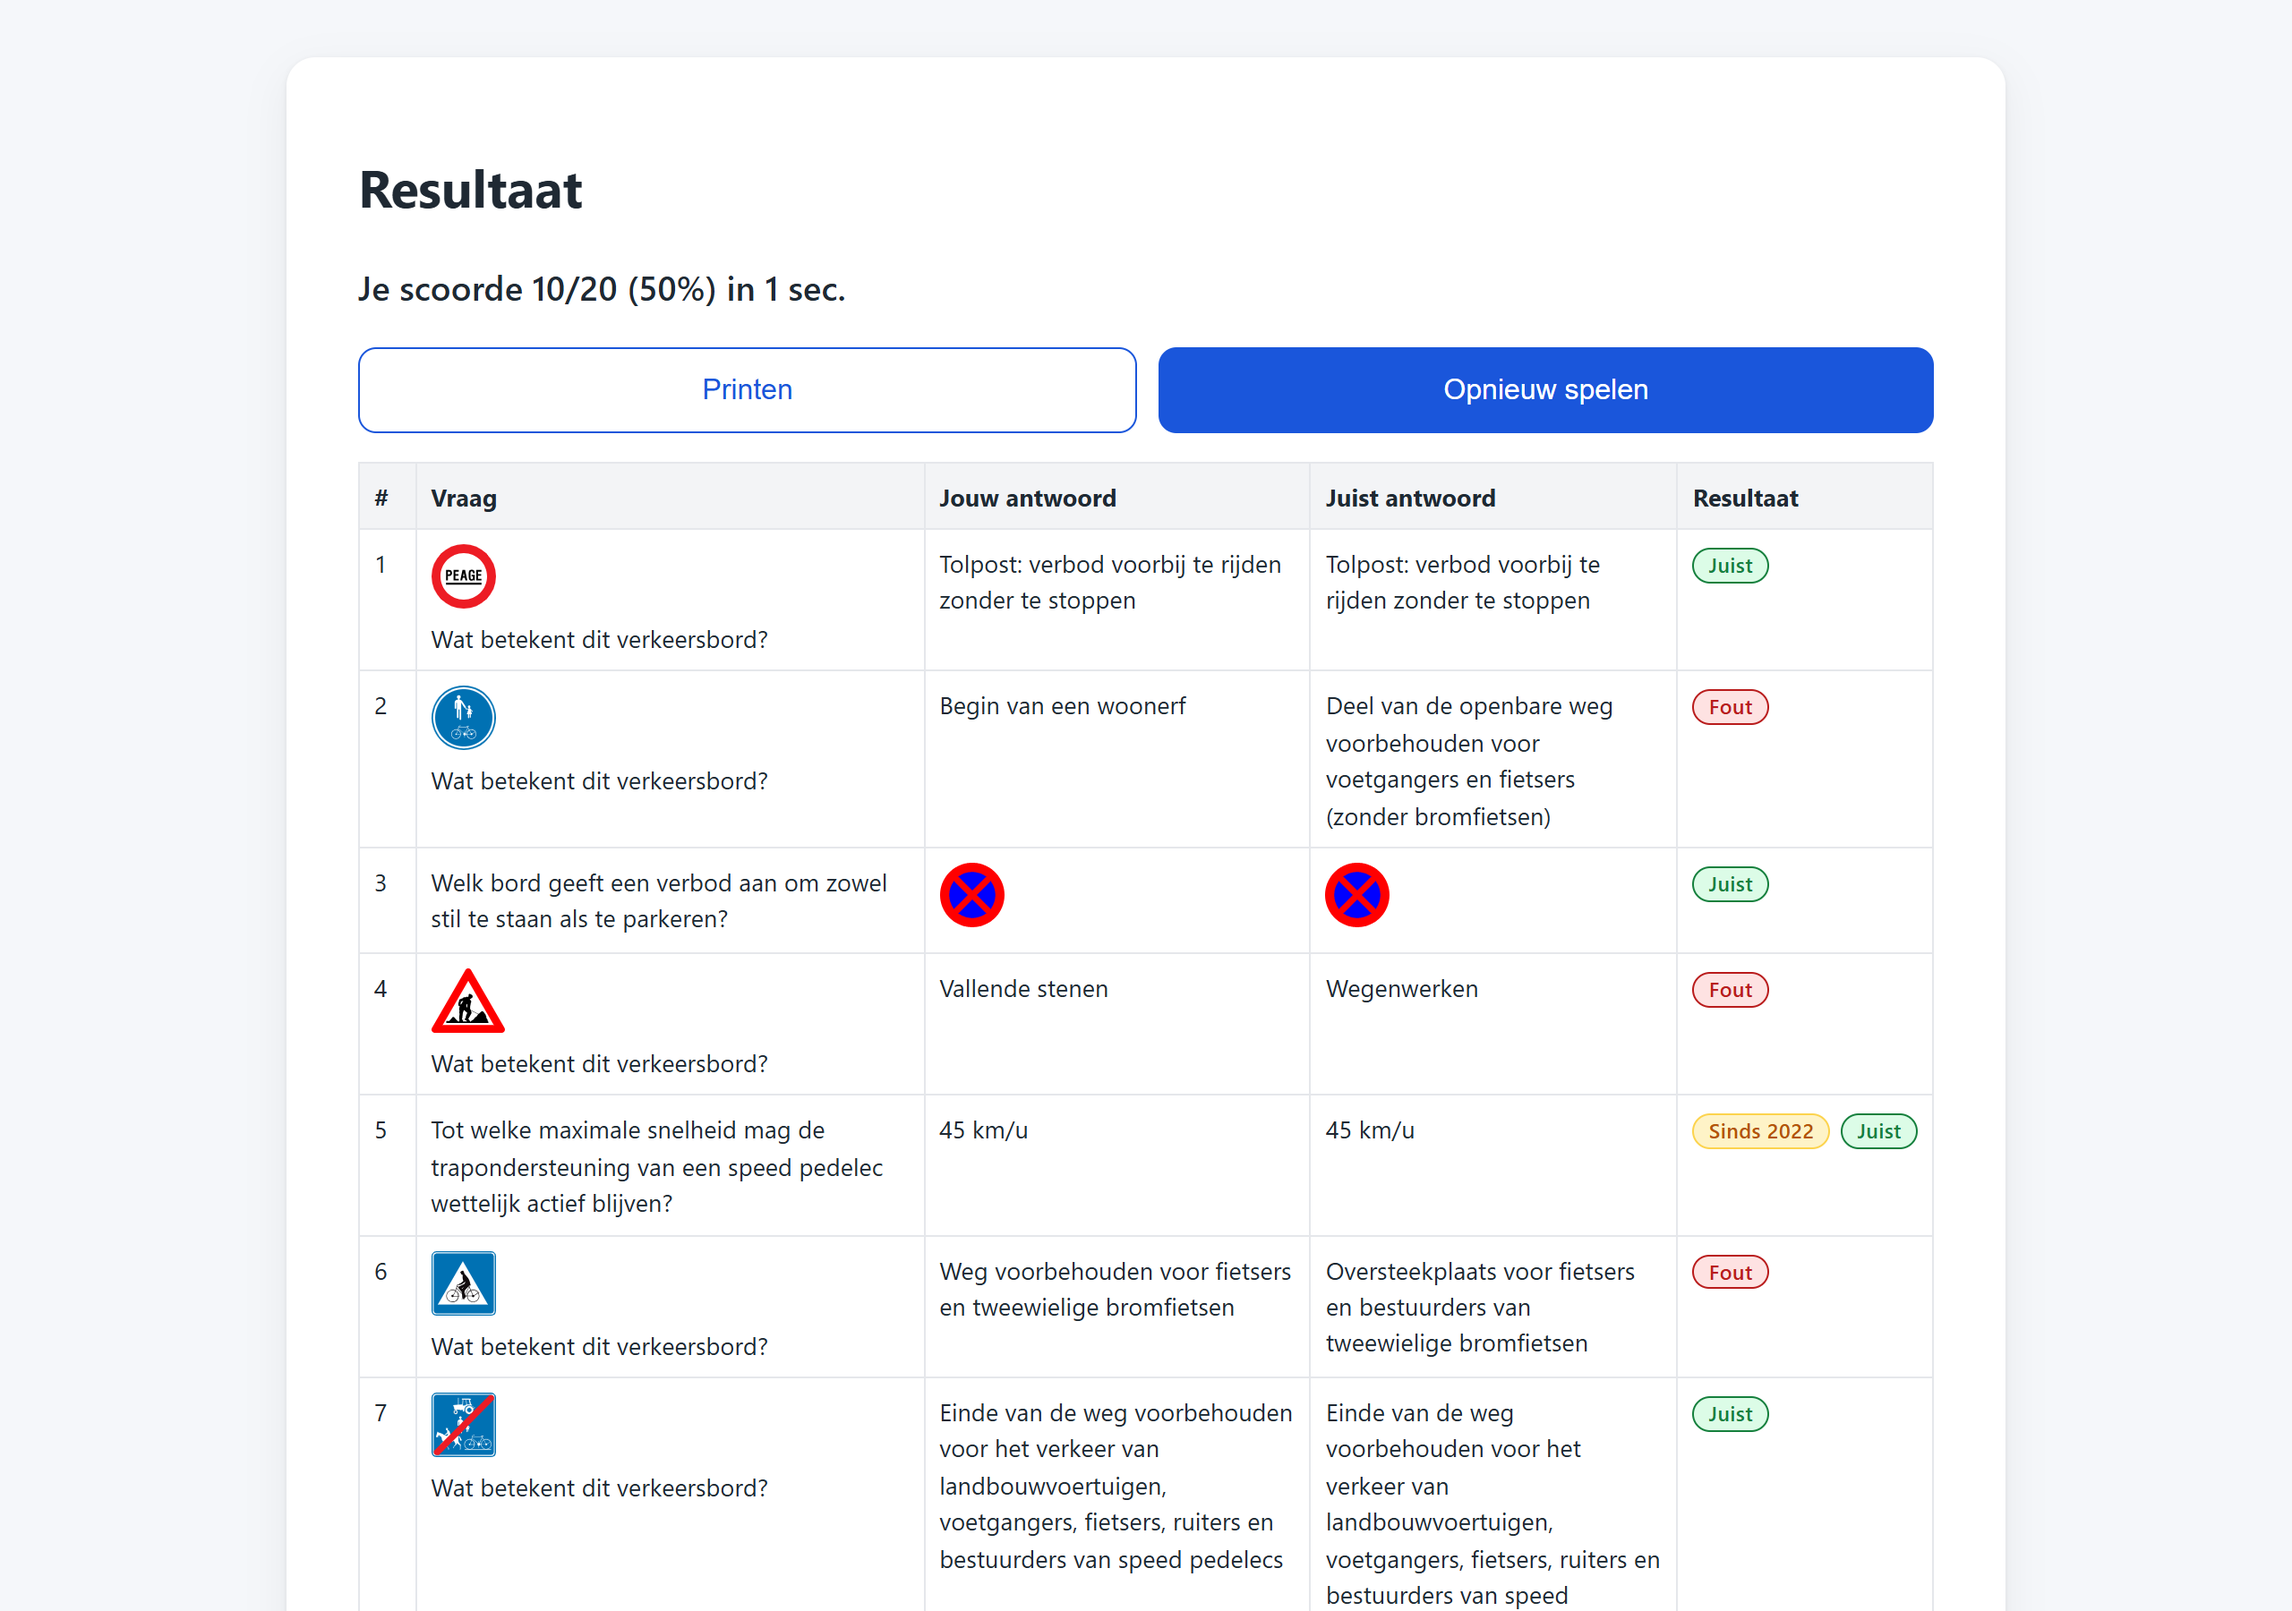
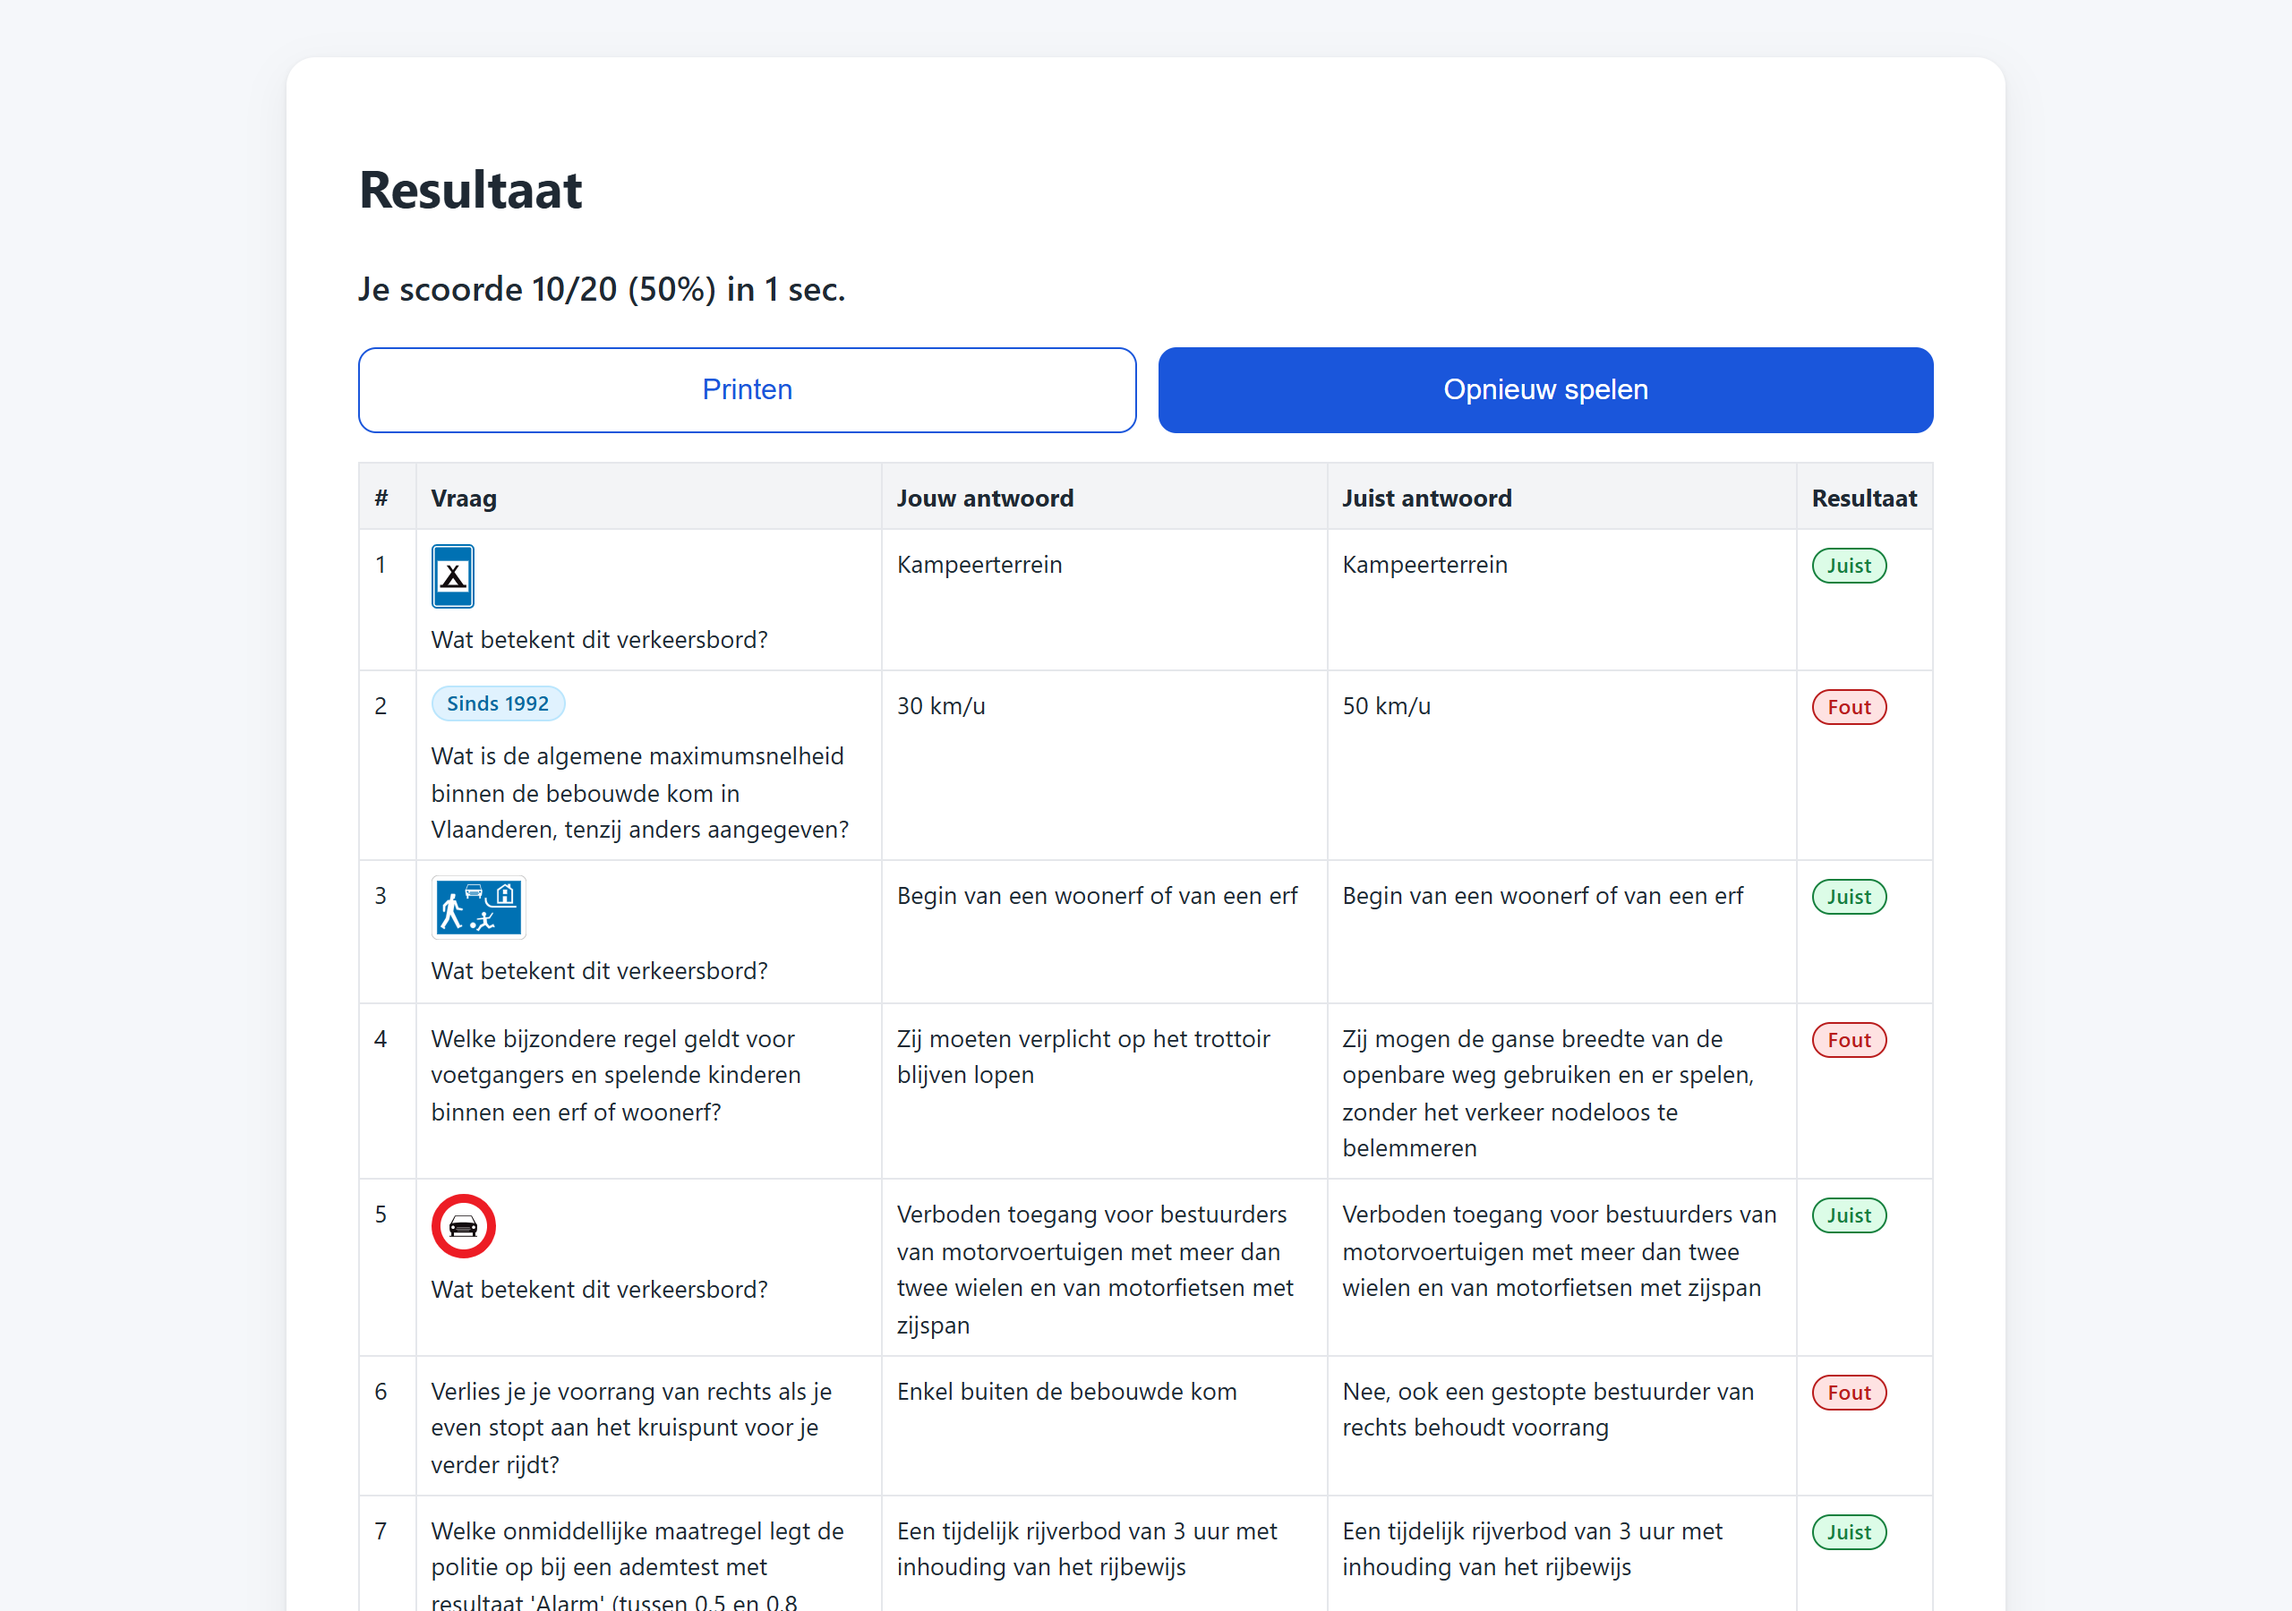
Kept amendment badge in the question column on desktop while pairing on mobile result cards.

diff --git a/js/app.js b/js/app.js
@@ -463,8 +463,14 @@ function optionCell(question, index) {
 }
 
 function questionCell(question) {
+  const badgeInfo = getSinceBadge(question.since);
+  const badgeHtml = badgeInfo ? `<span class="badge-since-desktop ${badgeInfo.className}">${badgeInfo.text}</span>` : "";
   const imgUrl = question.image || question.sign;
   const signImg = imgUrl ? `<img src="${imgUrl}" alt="${question.image ? "Situatie" : "Bord"}" class="table-thumb">` : "";
+
+  if (badgeInfo) {
+    return `<div class="table-question-wrap">${badgeHtml}<div>${signImg}${question.question}</div></div>`;
+  }
   return signImg ? `${signImg}${question.question}` : question.question;
 }
 
@@ -507,14 +513,14 @@ function showResult() {
     tr.className = a.correct ? "correct-row" : "wrong-row";
     const userAnsLabel = a.correct ? "Jouw Juiste Antwoord" : "Jouw antwoord";
     const badgeInfo = getSinceBadge(a.since);
-    const sinceBadgeHtml = badgeInfo ? `<span class="${badgeInfo.className}">${badgeInfo.text}</span>` : "";
+    const sinceBadgeMobileHtml = badgeInfo ? `<span class="badge-since-mobile ${badgeInfo.className}">${badgeInfo.text}</span>` : "";
     const resultBadgeHtml = `<span class="badge-result ${a.correct ? "badge-result-correct" : "badge-result-wrong"}">${a.correct ? "Juist" : "Fout"}</span>`;
     tr.innerHTML = `
       <td class="col-num" data-label="Vraag nr.">${i + 1}</td>
       <td class="col-question" data-label="Vraag Nr. ${i + 1}">${questionCell(a)}</td>
       <td class="col-user-ans" data-label="${userAnsLabel}">${optionCell(a, a.chosenIndex)}</td>
       <td class="col-correct-ans" data-label="Juist antwoord">${optionCell(a, a.correctIndex)}</td>
-      <td class="col-result"><div class="result-badges-wrap">${sinceBadgeHtml}${resultBadgeHtml}</div></td>
+      <td class="col-result"><div class="result-badges-wrap">${sinceBadgeMobileHtml}${resultBadgeHtml}</div></td>
     `;
     el.resultTableBody.appendChild(tr);
   });

diff --git a/css/style.css b/css/style.css
@@ -271,6 +271,14 @@ button {
   white-space: nowrap;
 }
 
+.badge-since-desktop {
+  display: inline-flex;
+}
+
+.badge-since-mobile {
+  display: none;
+}
+
 .badge-amber,
 .badge-since-amber {
   background-color: #fef3c7;
@@ -623,6 +631,8 @@ button {
     padding: 0;
   }
   #result-table .col-result::before { display: none; }
+  .badge-since-desktop { display: none !important; }
+  .badge-since-mobile { display: inline-flex !important; }
   #result-table td {
     border: none;
     padding: 3px 0;

diff --git a/tests/test_ux_layout.py b/tests/test_ux_layout.py
@@ -48,14 +48,17 @@ class TestUXLayout(unittest.TestCase):
         self.assertIn("updateNextButtonText", js, "app.js must define updateNextButtonText")
 
     def test_paired_result_badges_and_pill_sizing(self) -> None:
-        """Validates that since badges and result badges share sizing and are paired in result cards."""
+        """Validates that since badges remain with question on desktop and pair on mobile."""
         self.assertTrue(JS_PATH.exists(), "app.js must exist")
         self.assertTrue(CSS_PATH.exists(), "style.css must exist")
         js = JS_PATH.read_text(encoding="utf-8")
         css = CSS_PATH.read_text(encoding="utf-8")
 
+        self.assertIn("badge-since-desktop", js, "app.js must render desktop since badge in questionCell")
+        self.assertIn("badge-since-mobile", js, "app.js must render mobile since badge in showResult")
+        self.assertIn(".badge-since-desktop", css, "style.css must define .badge-since-desktop")
+        self.assertIn(".badge-since-mobile", css, "style.css must define .badge-since-mobile")
         self.assertIn("result-badges-wrap", js, "app.js must wrap result badges in result-badges-wrap")
-        self.assertIn("${sinceBadgeHtml}${resultBadgeHtml}", js, "app.js must place since badge before result badge")
         self.assertIn(".result-badges-wrap", css, "style.css must declare .result-badges-wrap")
         self.assertIn("padding-right: 155px", css, "style.css must reserve padding for paired badges on mobile")
 

diff --git a/CHANGELOG.md b/CHANGELOG.md
@@ -14,7 +14,7 @@ A summarized overview of all changes, per version of this project.
 ---
 
 ## v2.0.1-pre
-- FrontEnd: Wetswijzigingslabels geharmoniseerd qua typografie en gekoppeld links van de resultaatlabels op het resultatenoverzicht.
+- FrontEnd: Wetswijzigingslabels geharmoniseerd en mobiel gekoppeld aan het resultaatlabel terwijl ze op desktop bij de vraag blijven.
 - Inhoud: Tien praktijkvragen met foto's van verkeerssituaties toegevoegd inclusief ondersteuning voor filteren via queryparameters.
 - FrontEnd: Vraagtype-filter toegevoegd met visuele startmeldingen en responsieve fotoweergave voor praktijksituaties.
 - FrontEnd: Tweepanelen-layout op desktop en scrollvrije mobiele weergave met zwevende actieknop en compacte wetslink geïmplementeerd.
